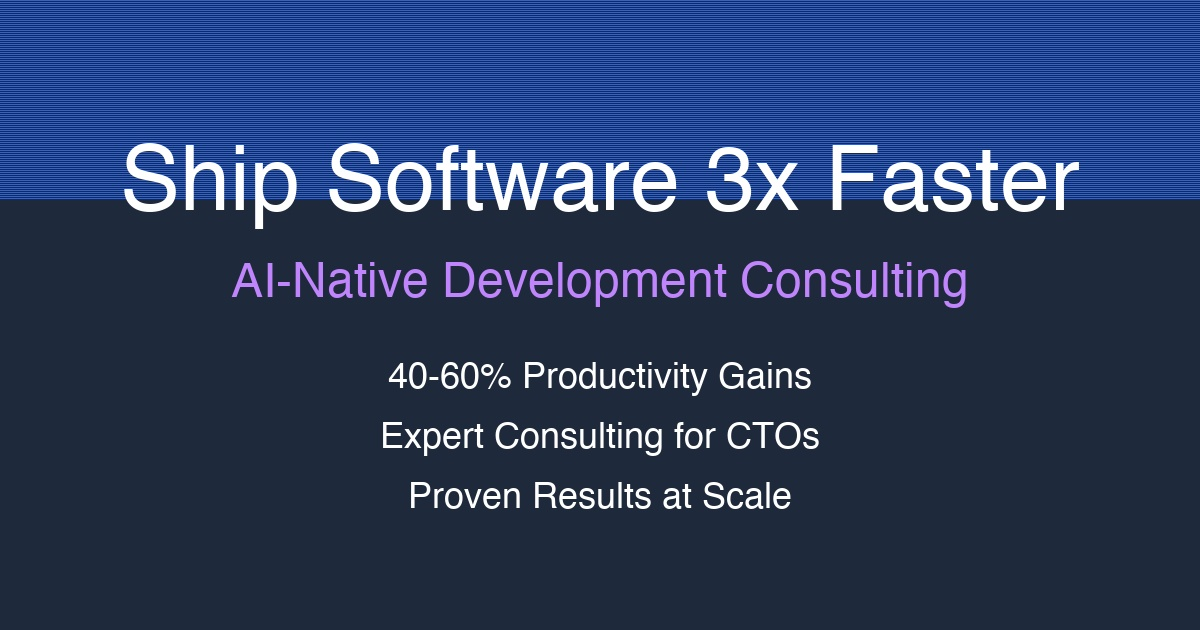
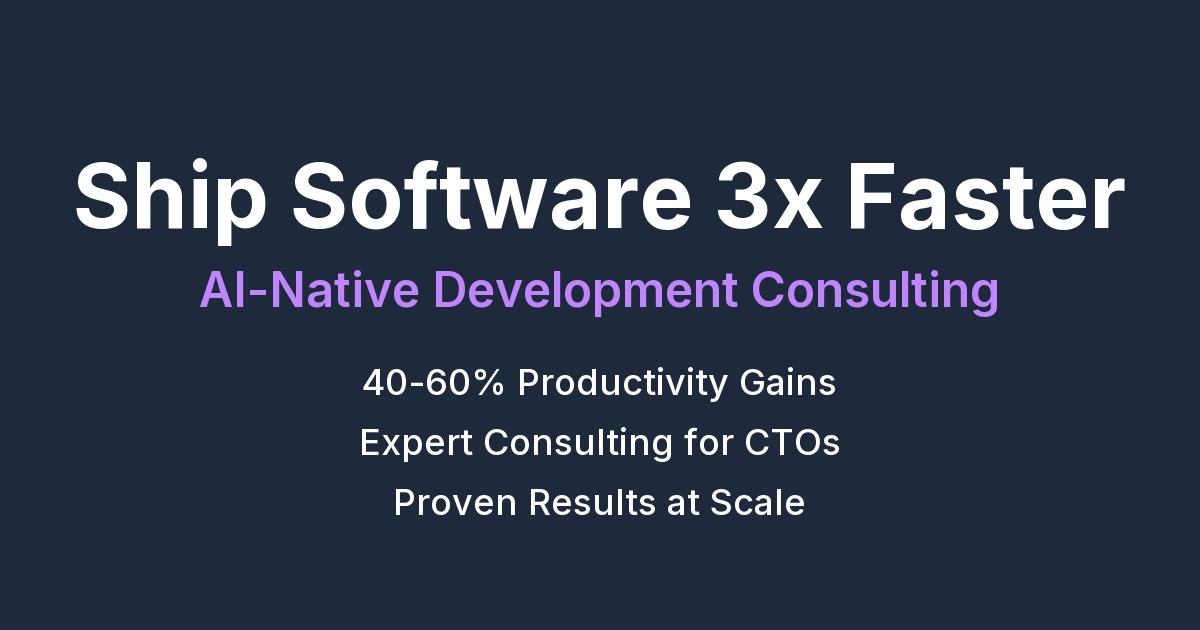
fix: Use solid background and Inter font for OG images
## Changes

Final refinements based on feedback:

### Background
- ✅ **Solid dark background** - Removed all gradients and patterns
- ✅ **Clean #1e293b slate** - Matches site exactly
- ✅ **Perfect readability** - No visual noise, text stands out clearly

### Typography
- ✅ **Inter font** - Downloaded actual Inter Variable font used on website
- ✅ **Font weights**: Bold (700), SemiBold (600), Medium (500)
- ✅ **Exact match** - Same font family as site's Google Fonts import

### Visual Design
- Minimalist, professional appearance
- High contrast white text on dark background
- Purple (#c084fc) accents for subtitles
- Blue (#3B82F6) highlights for stats
- Zero visual distractions

## File Sizes
- og-homepage.jpg: ~65KB (optimized)
- og-workshop.jpg: ~64KB (optimized)
- og-roi-calculator.jpg: ~62KB (optimized)

🤖 Generated with [Claude Code](https://claude.com/claude-code)

diff --git a/generate-og-images.py b/generate-og-images.py
@@ -17,17 +17,8 @@ GRADIENT_START = "#2563EB"  # Blue from gradient
 GRADIENT_END = "#9333EA"    # Purple from gradient
 
 def create_gradient_background(width, height):
-    """Create a clean dark background with subtle gradient accent"""
+    """Create a solid dark background matching the site"""
     img = Image.new('RGB', (width, height), DARK_BG)
-    draw = ImageDraw.Draw(img)
-
-    # Add subtle gradient accent at top (much lighter than site)
-    for y in range(200):
-        # Very subtle blue to purple gradient at top
-        alpha = int((200 - y) / 200 * 15)  # Max 15 opacity
-        if y % 2 == 0:  # Every other line for subtlety
-            draw.line([(0, y), (width, y)], fill=(37, 99, 235, alpha))
-
     return img
 
 def add_text_centered(draw, text, y, font, color, width=1200):
@@ -42,17 +33,21 @@ def create_homepage_og_image():
     img = create_gradient_background(1200, 630)
     draw = ImageDraw.Draw(img)
 
-    # Use Inter-like system fonts
+    # Use Inter font from the website
     try:
-        # Try SF Pro (macOS), fallback to Arial/Helvetica
-        title_font = ImageFont.truetype("/System/Library/Fonts/SF-Pro-Display-Bold.otf", 90)
-        subtitle_font = ImageFont.truetype("/System/Library/Fonts/SF-Pro-Display-Semibold.otf", 48)
-        detail_font = ImageFont.truetype("/System/Library/Fonts/SF-Pro-Text-Medium.otf", 36)
+        # Use Inter Variable font (same as website)
+        title_font = ImageFont.truetype("/tmp/inter-font/InterVariable.ttf", 90)
+        title_font.set_variation_by_name('Bold')
+        subtitle_font = ImageFont.truetype("/tmp/inter-font/InterVariable.ttf", 48)
+        subtitle_font.set_variation_by_name('SemiBold')
+        detail_font = ImageFont.truetype("/tmp/inter-font/InterVariable.ttf", 36)
+        detail_font.set_variation_by_name('Medium')
     except:
+        # Fallback to Inter.ttc or system fonts
         try:
-            title_font = ImageFont.truetype("/System/Library/Fonts/Helvetica.ttc", 90)
-            subtitle_font = ImageFont.truetype("/System/Library/Fonts/Helvetica.ttc", 48)
-            detail_font = ImageFont.truetype("/System/Library/Fonts/Helvetica.ttc", 36)
+            title_font = ImageFont.truetype("/tmp/inter-font/Inter.ttc", 90)
+            subtitle_font = ImageFont.truetype("/tmp/inter-font/Inter.ttc", 48)
+            detail_font = ImageFont.truetype("/tmp/inter-font/Inter.ttc", 36)
         except:
             title_font = ImageFont.load_default()
             subtitle_font = ImageFont.load_default()
@@ -78,14 +73,17 @@ def create_workshop_og_image():
     draw = ImageDraw.Draw(img)
 
     try:
-        title_font = ImageFont.truetype("/System/Library/Fonts/SF-Pro-Display-Bold.otf", 80)
-        subtitle_font = ImageFont.truetype("/System/Library/Fonts/SF-Pro-Display-Semibold.otf", 46)
-        detail_font = ImageFont.truetype("/System/Library/Fonts/SF-Pro-Text-Medium.otf", 34)
+        title_font = ImageFont.truetype("/tmp/inter-font/InterVariable.ttf", 80)
+        title_font.set_variation_by_name('Bold')
+        subtitle_font = ImageFont.truetype("/tmp/inter-font/InterVariable.ttf", 46)
+        subtitle_font.set_variation_by_name('SemiBold')
+        detail_font = ImageFont.truetype("/tmp/inter-font/InterVariable.ttf", 34)
+        detail_font.set_variation_by_name('Medium')
     except:
         try:
-            title_font = ImageFont.truetype("/System/Library/Fonts/Helvetica.ttc", 80)
-            subtitle_font = ImageFont.truetype("/System/Library/Fonts/Helvetica.ttc", 46)
-            detail_font = ImageFont.truetype("/System/Library/Fonts/Helvetica.ttc", 34)
+            title_font = ImageFont.truetype("/tmp/inter-font/Inter.ttc", 80)
+            subtitle_font = ImageFont.truetype("/tmp/inter-font/Inter.ttc", 46)
+            detail_font = ImageFont.truetype("/tmp/inter-font/Inter.ttc", 34)
         except:
             title_font = ImageFont.load_default()
             subtitle_font = ImageFont.load_default()
@@ -112,16 +110,20 @@ def create_roi_calculator_og_image():
     draw = ImageDraw.Draw(img)
 
     try:
-        title_font = ImageFont.truetype("/System/Library/Fonts/SF-Pro-Display-Bold.otf", 78)
-        subtitle_font = ImageFont.truetype("/System/Library/Fonts/SF-Pro-Display-Semibold.otf", 44)
-        detail_font = ImageFont.truetype("/System/Library/Fonts/SF-Pro-Text-Medium.otf", 36)
-        stat_font = ImageFont.truetype("/System/Library/Fonts/SF-Pro-Display-Bold.otf", 120)
+        title_font = ImageFont.truetype("/tmp/inter-font/InterVariable.ttf", 78)
+        title_font.set_variation_by_name('Bold')
+        subtitle_font = ImageFont.truetype("/tmp/inter-font/InterVariable.ttf", 44)
+        subtitle_font.set_variation_by_name('SemiBold')
+        detail_font = ImageFont.truetype("/tmp/inter-font/InterVariable.ttf", 36)
+        detail_font.set_variation_by_name('Medium')
+        stat_font = ImageFont.truetype("/tmp/inter-font/InterVariable.ttf", 120)
+        stat_font.set_variation_by_name('Bold')
     except:
         try:
-            title_font = ImageFont.truetype("/System/Library/Fonts/Helvetica.ttc", 78)
-            subtitle_font = ImageFont.truetype("/System/Library/Fonts/Helvetica.ttc", 44)
-            detail_font = ImageFont.truetype("/System/Library/Fonts/Helvetica.ttc", 36)
-            stat_font = ImageFont.truetype("/System/Library/Fonts/Helvetica.ttc", 120)
+            title_font = ImageFont.truetype("/tmp/inter-font/Inter.ttc", 78)
+            subtitle_font = ImageFont.truetype("/tmp/inter-font/Inter.ttc", 44)
+            detail_font = ImageFont.truetype("/tmp/inter-font/Inter.ttc", 36)
+            stat_font = ImageFont.truetype("/tmp/inter-font/Inter.ttc", 120)
         except:
             title_font = ImageFont.load_default()
             subtitle_font = ImageFont.load_default()
